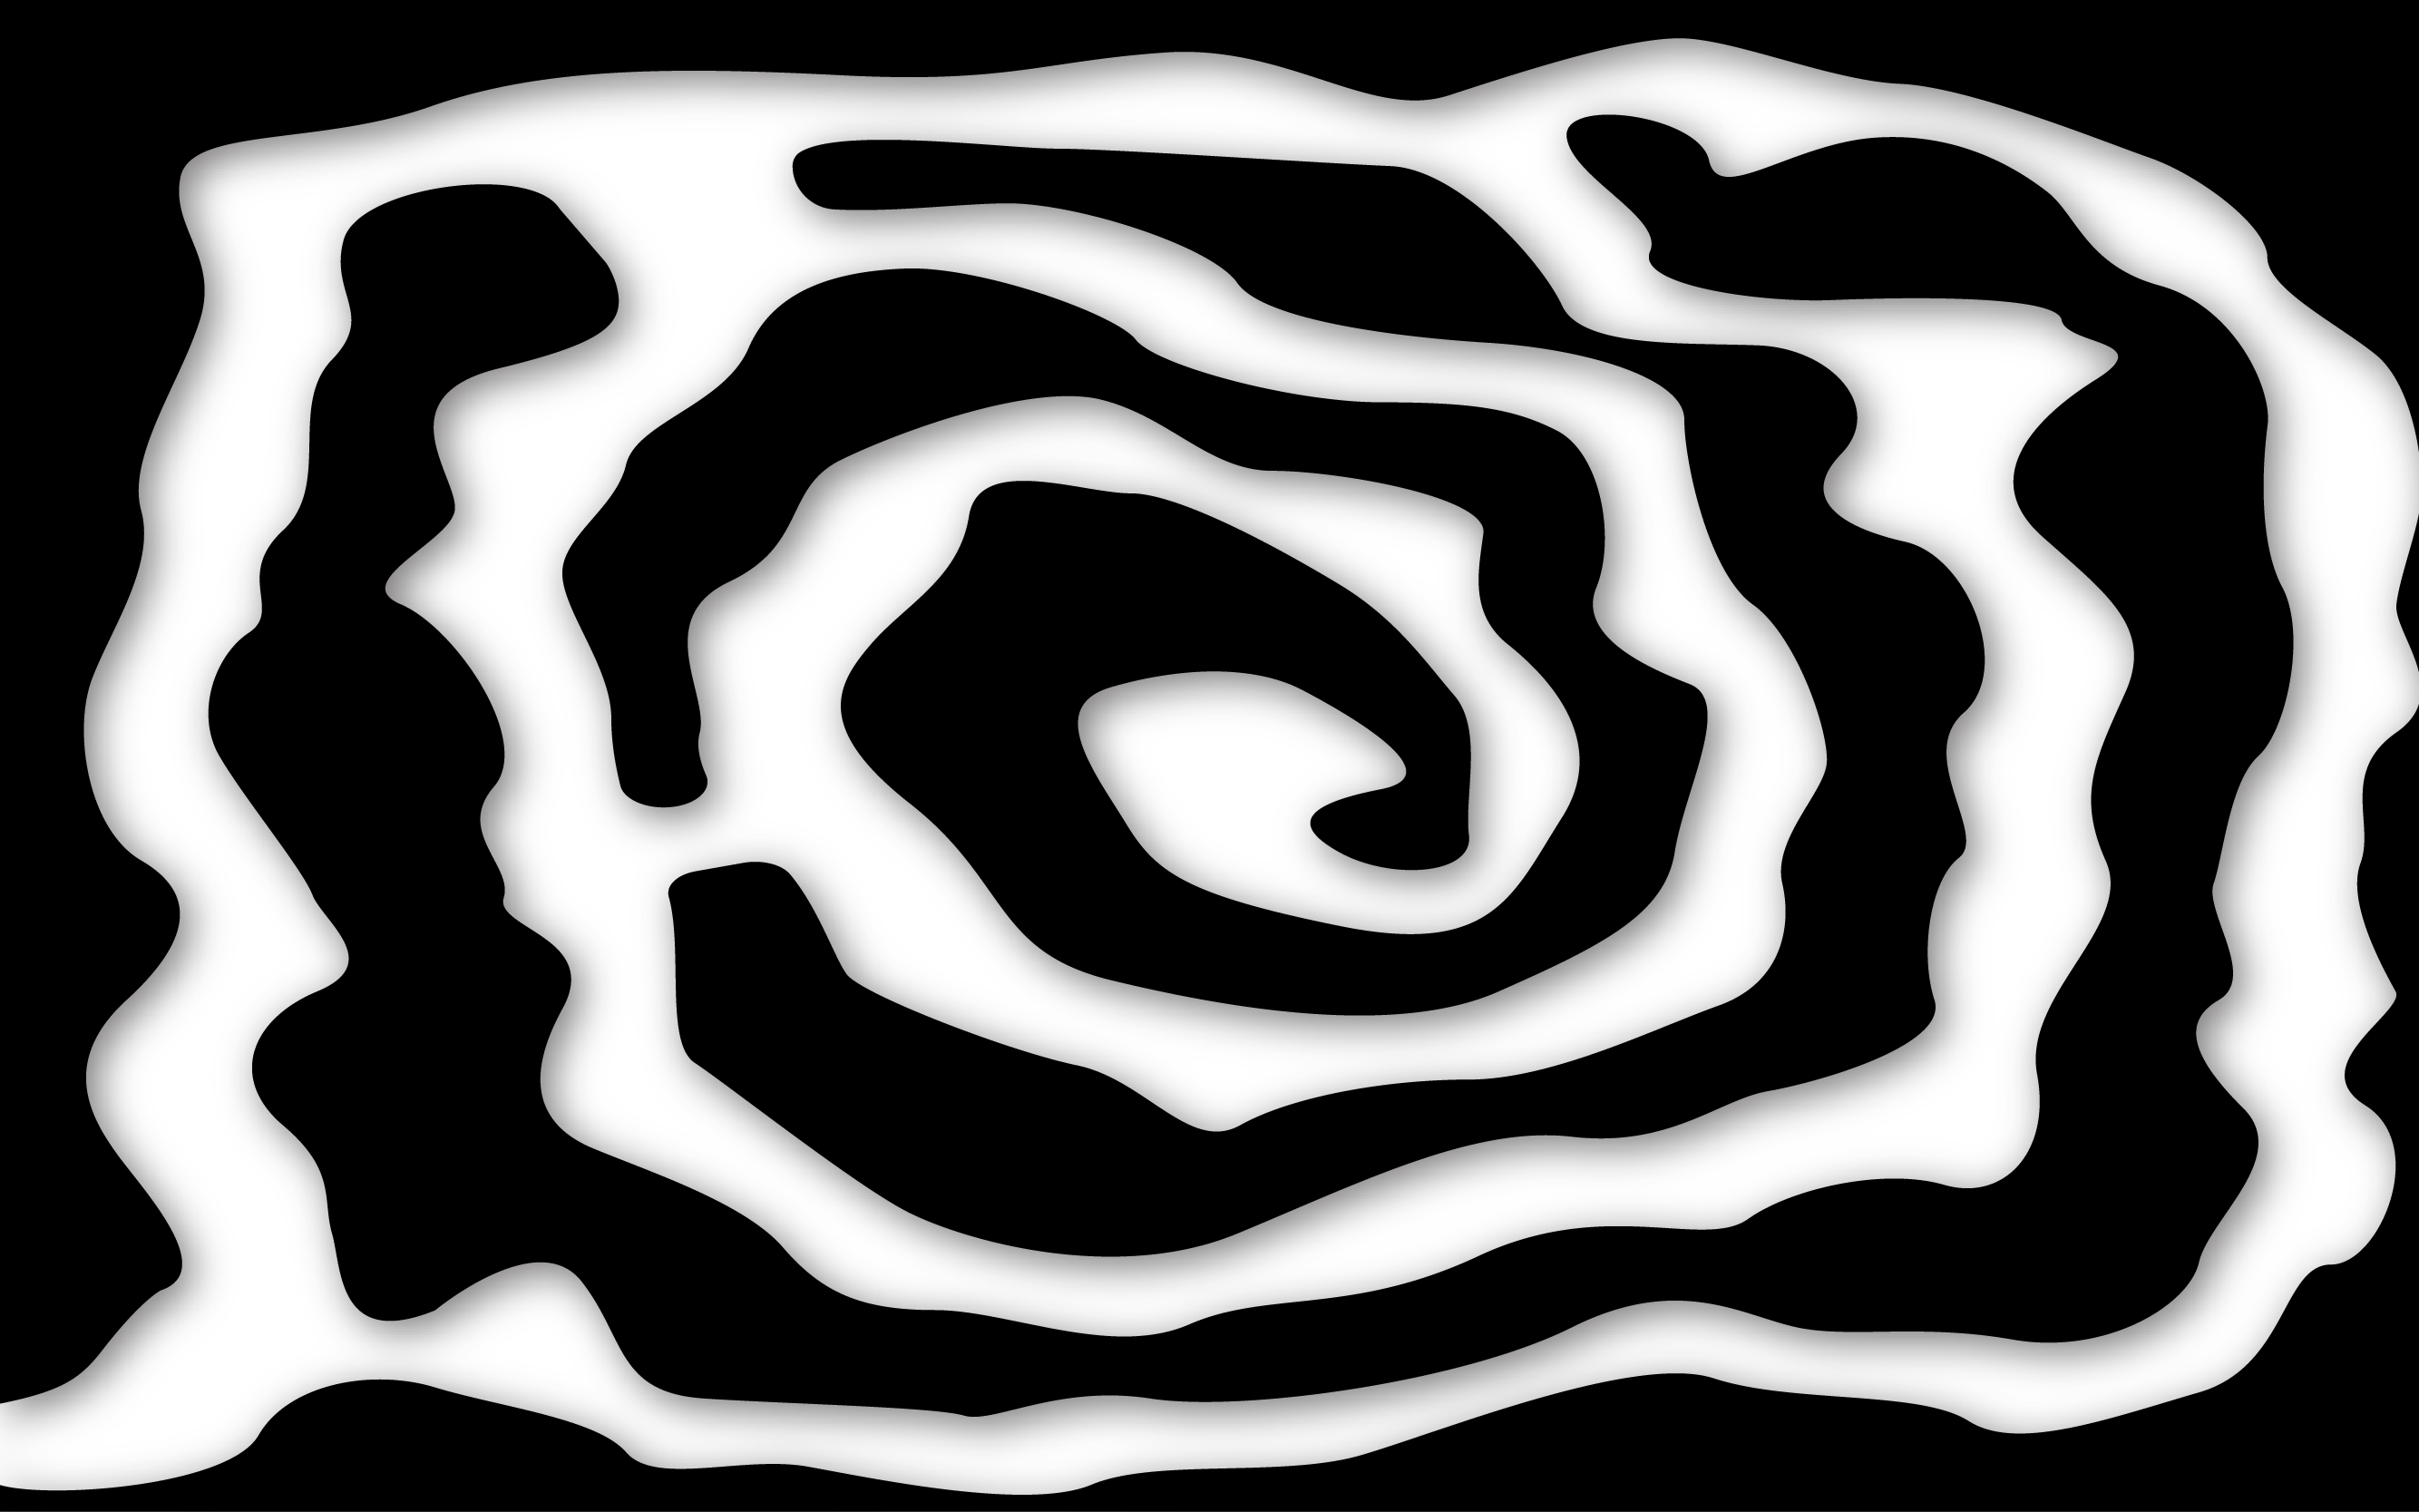
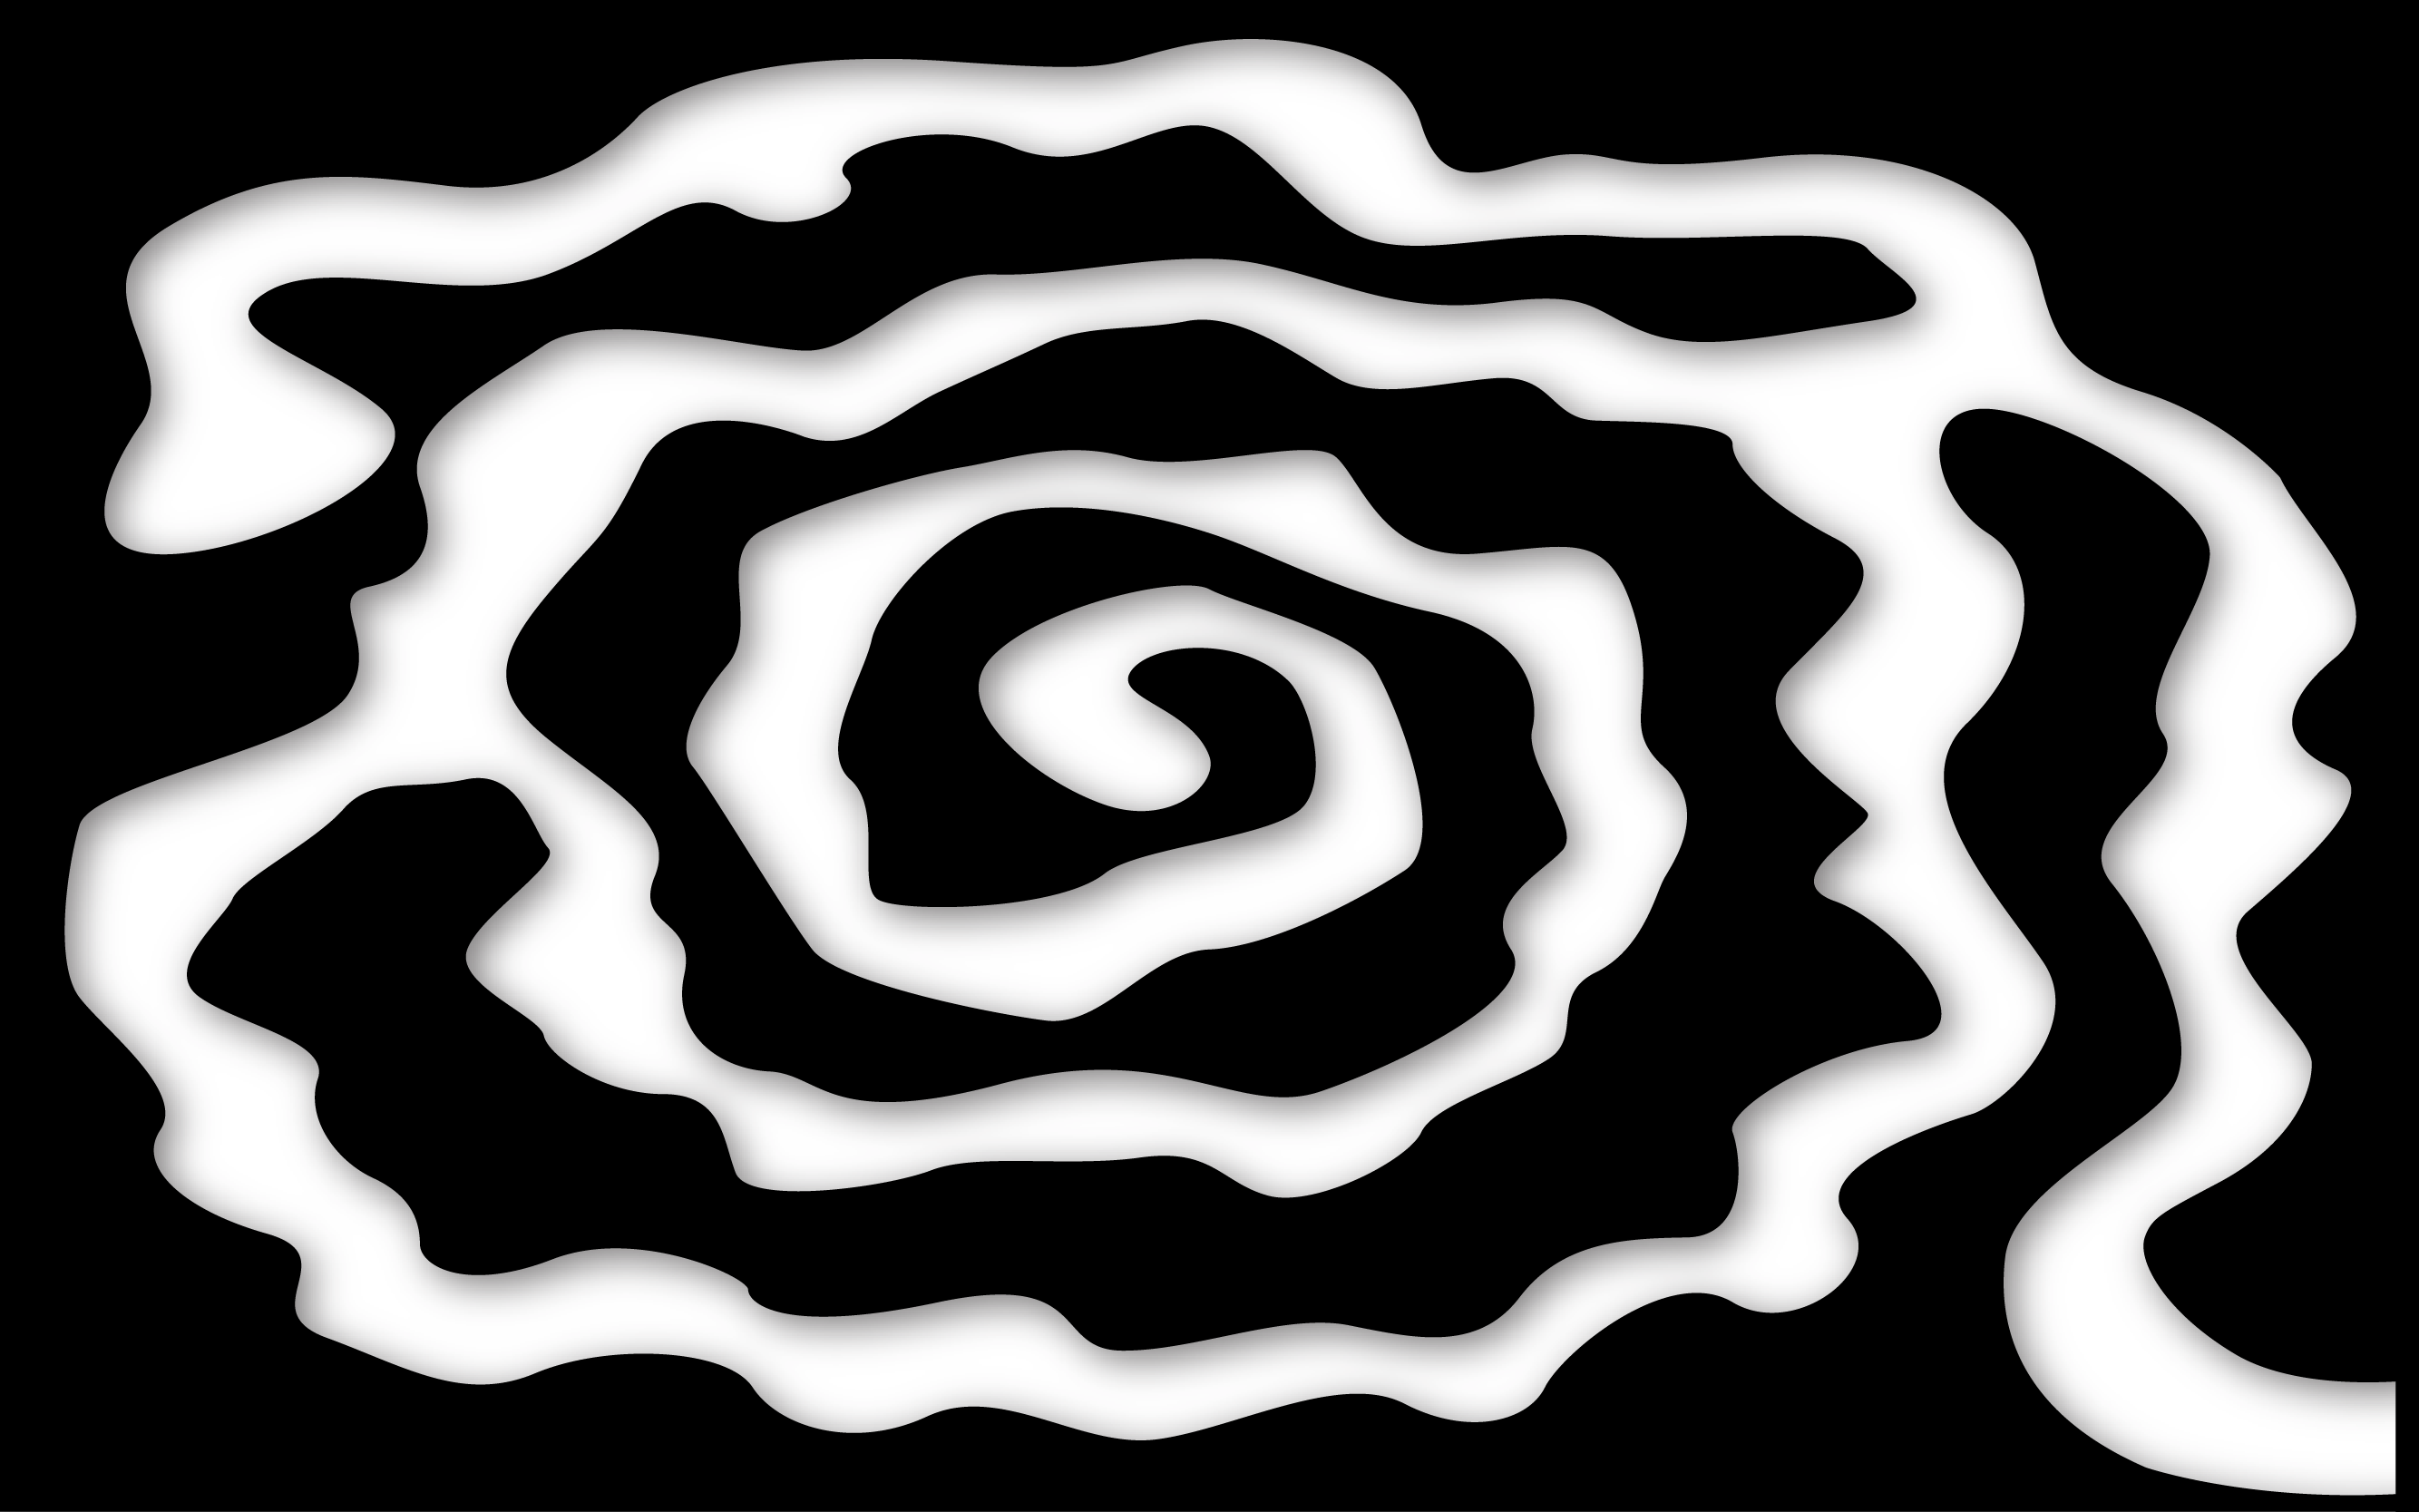
bg colour, speech bubbles

diff --git a/m1n4-th1n-pl4ce/style.css b/m1n4-th1n-pl4ce/style.css
@@ -200,3 +200,31 @@ body::after {
   width: 120px;
   animation: float 3s ease-in-out infinite;
 }
+
+.trickster-wrap {
+  position: absolute;
+  margin-top: 20px;
+  left: 2%;
+  width: 120px;
+}
+
+.floating {
+  width: 100%;
+  animation: float 3s ease-in-out infinite;
+}
+
+.trickster-bubble {
+  position: absolute;
+  top: -90px;
+  left: 110px;
+
+  width: 300px;
+  height: auto;
+
+  opacity: 0;
+  transition: opacity 0.2s;
+}
+
+.trickster-wrap:hover .trickster-bubble {
+  opacity: 1;
+}

diff --git a/m1n4-th1n-pl4ce/loop12.html b/m1n4-th1n-pl4ce/loop12.html
@@ -28,7 +28,10 @@
   </script>
 
   <!--<a href="index.html" class="restart">restart</a>-->
+  <div class="trickster-wrap">
   <img src="pics/trick2.svg" class="floating">
+  <img src="pics/speech12.svg" class="trickster-bubble">
+</div>
   <a href="scene2.html" class="continue-btn">Continue differently</a>
 
   <img id="sprite" src="pics/crab.svg" style="